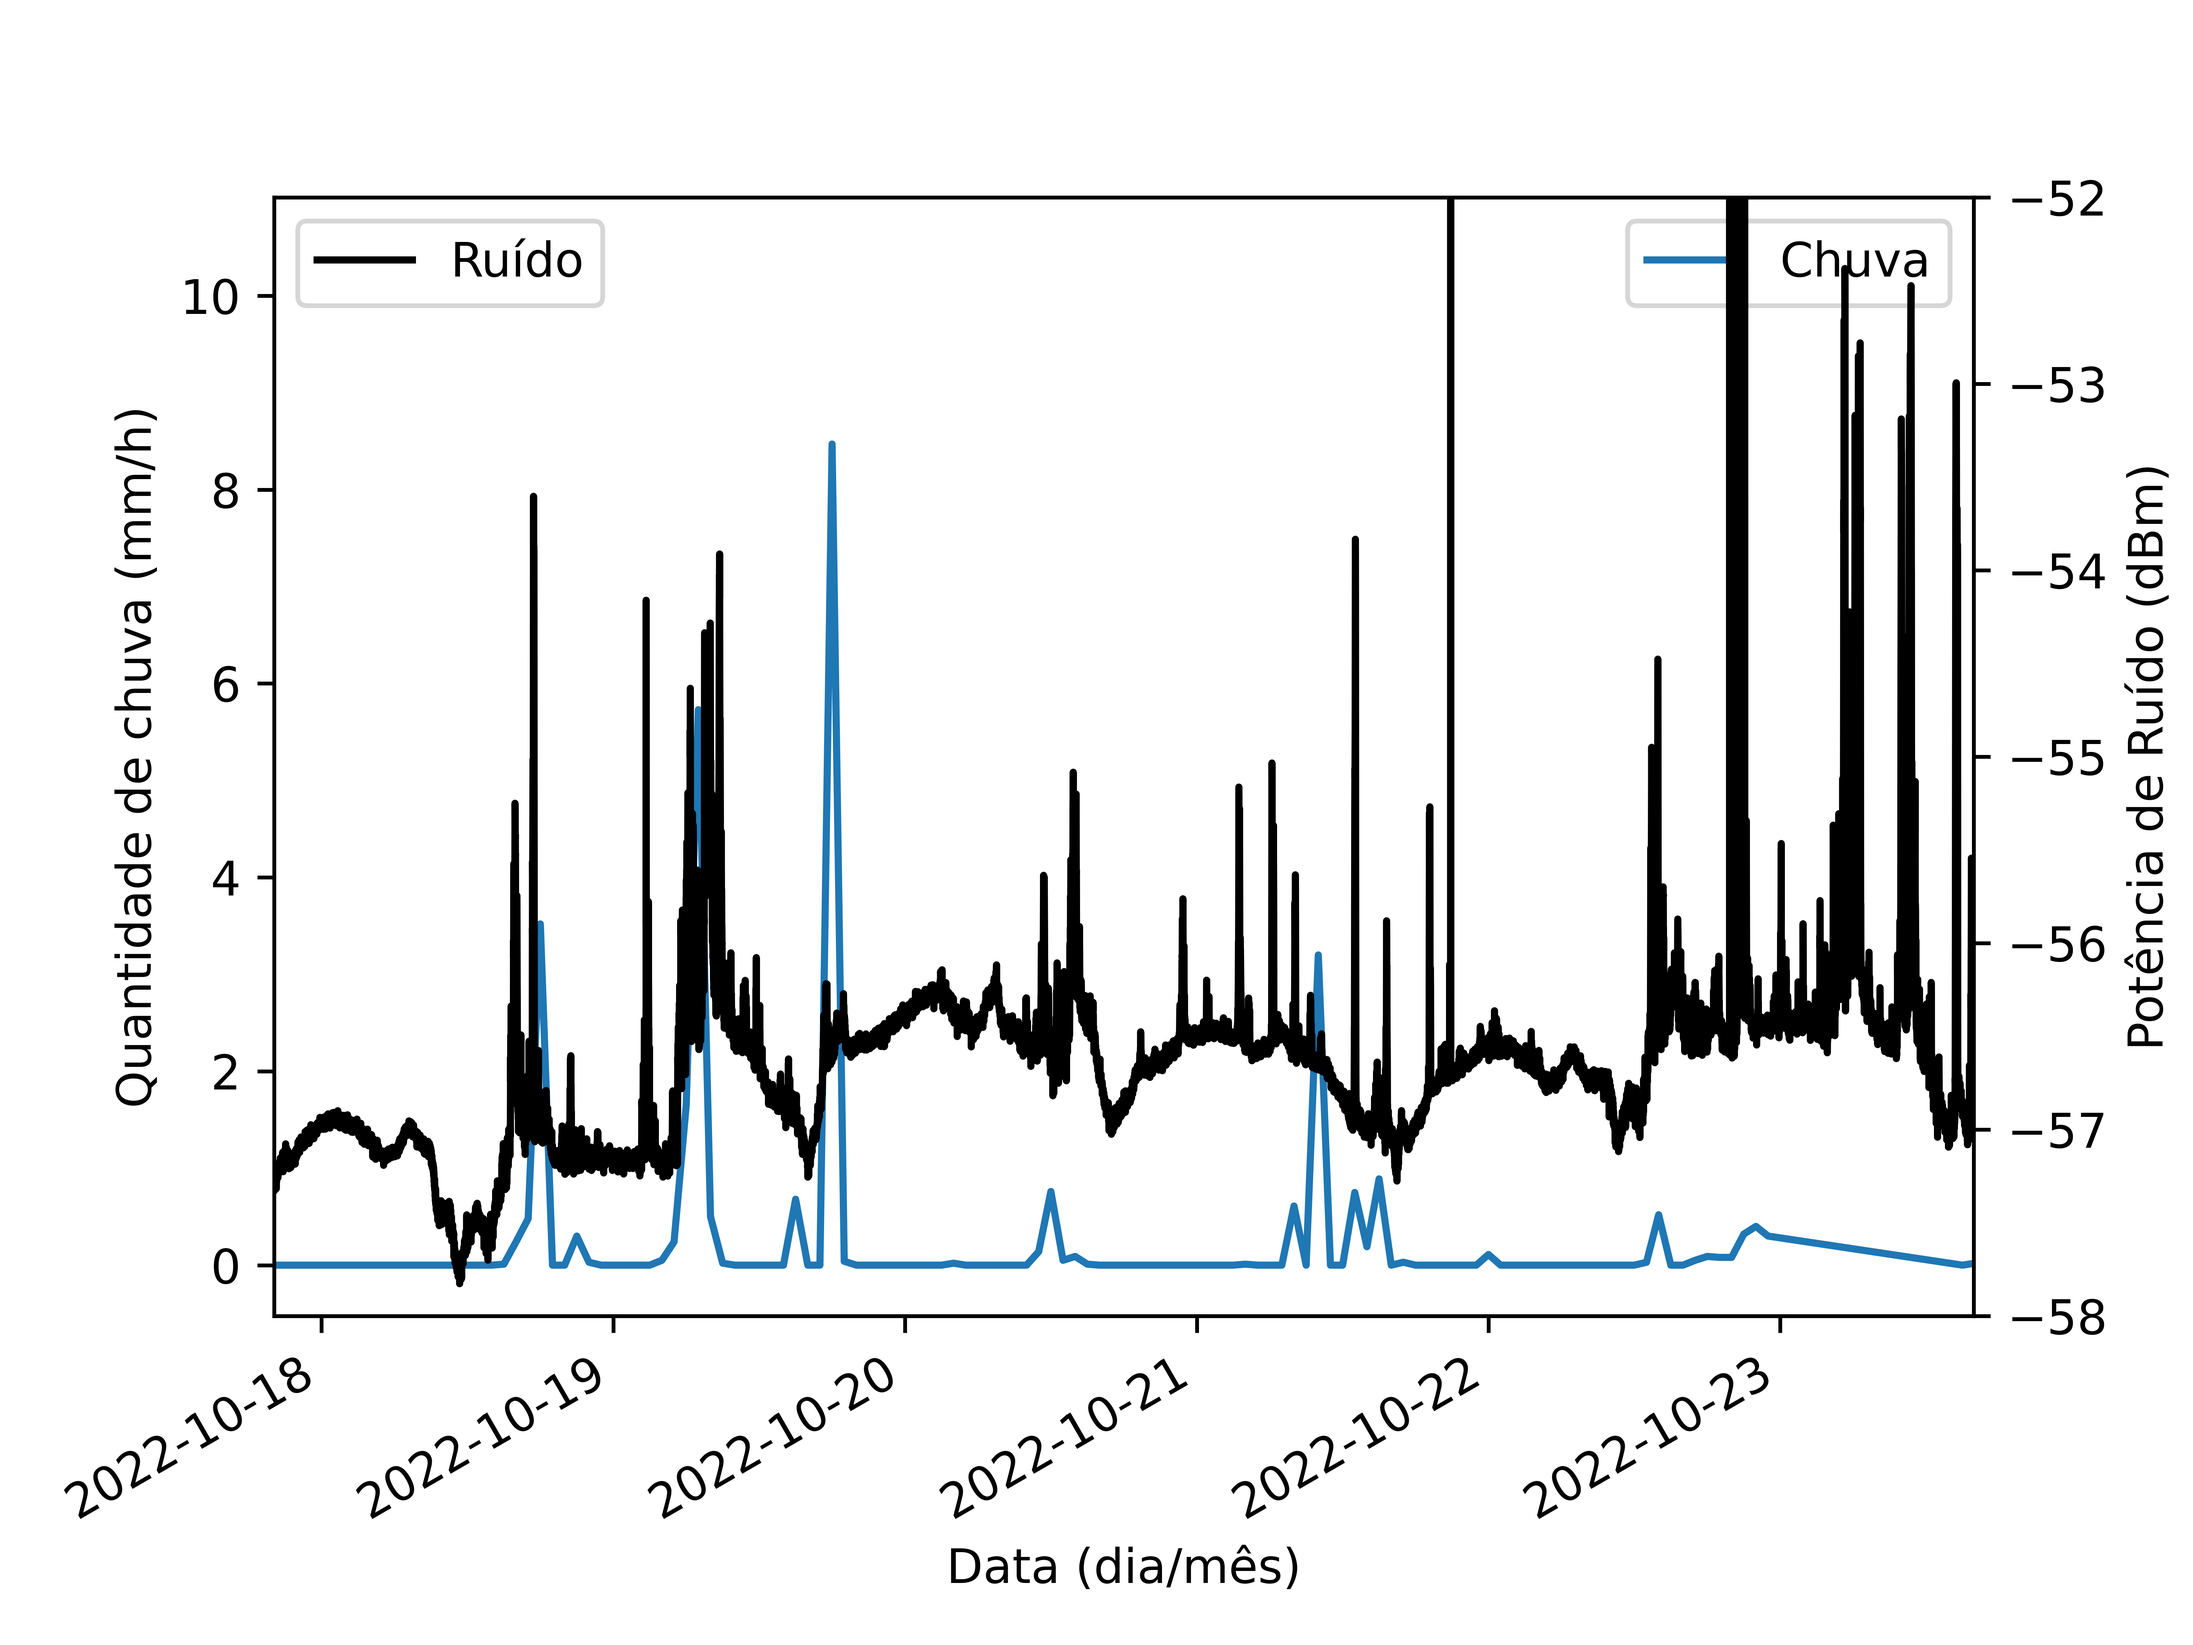
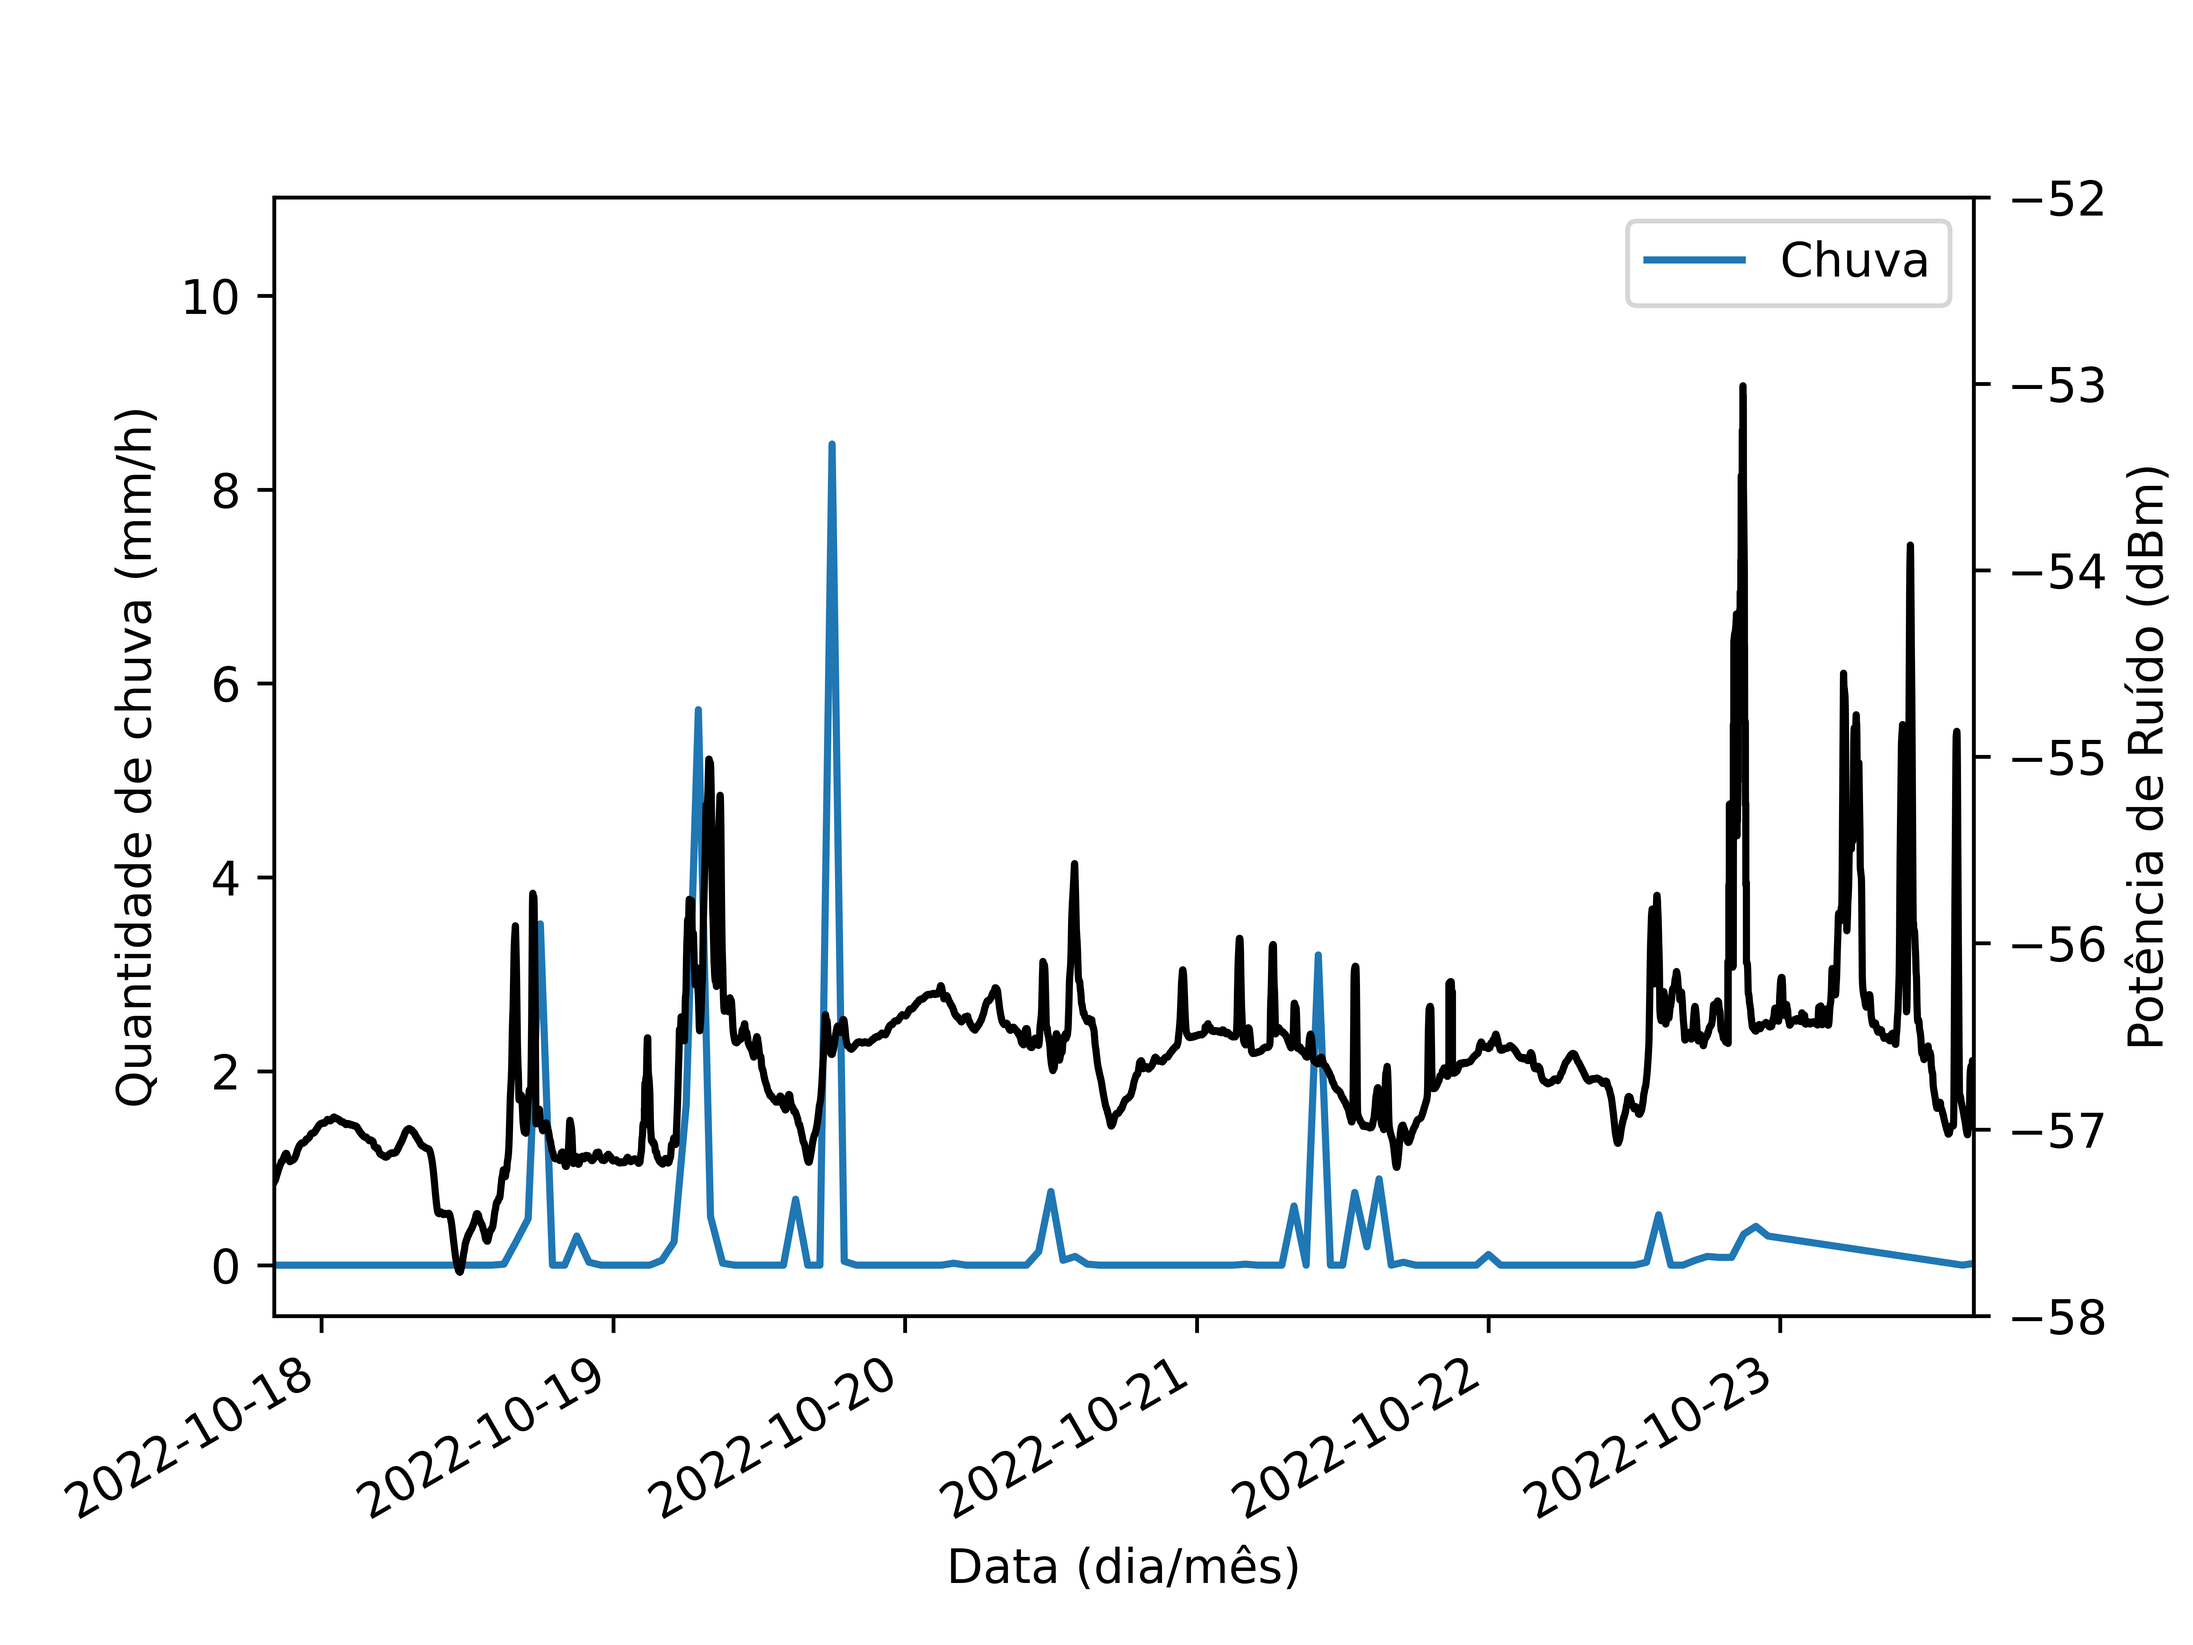
chuva e ruido acabados

diff --git a/PYTHON/sr.py b/PYTHON/sr.py
@@ -1,12 +1,15 @@
 import matplotlib.pyplot as plt
 import numpy as np
+import scipy
 from numpy.fft import fft, ifft
 from datetime import datetime
 import matplotlib.dates as mdates
 import pandas as pd
 import matplotlib.dates as mdates
+import scipy.sparse
 from scipy import integrate
 from scipy.integrate import quad
+from scipy.signal import butter, lfilter, freqz
 
 # Signal
 with open('sat_data/sem12_sinal.txt') as f:
@@ -158,9 +161,21 @@ print(len(rain_amount))
 # print(rain_amount)
 
 date_time = pd.to_datetime(forecast_dates)
+
+
 # rain_amount = integrate.cumulative_trapezoid(rain_amount)
 # rain_amount = np.append(rain_amount, rain_amount[-1])
-#noise_total['Value'] = np.append(noise_total['Value'], noise_total['Value'][-1])
+# noise_total['Value'] = np.append(noise_total['Value'], noise_total['Value'][-1])
+
+def mean_filter(arr, k):
+    p = len(arr)
+    diag_offset = np.linspace(-(k//2), k//2, k, dtype=int)
+    eL = scipy.sparse.diags(np.ones((k, p)), offsets=diag_offset, shape=(p, p))
+    nrmlize = eL @ np.ones_like(arr)
+    return (eL @ arr) / nrmlize
+
+
+noise_total_filtered = mean_filter(noise_total['Value'], 50)
 
 DF = pd.DataFrame()
 DF['value'] = rain_amount
@@ -168,7 +183,7 @@ plt.gca().xaxis.set_major_formatter(mdates.DateFormatter('%d/%m'))
 plt.gca().xaxis.set_major_locator(mdates.DayLocator(interval=2))
 DF = DF.set_index(date_time)
 x0 = noise_total['Date'][0]
-x1 = noise_total['Date'][len(noise_total['Date'])-1]
+x1 = noise_total['Date'][len(noise_total['Date']) - 1]
 fig, ax = plt.subplots()
 ax.set_xlim([x0, x1])
 ax.plot(DF, label="Chuva")
@@ -176,14 +191,13 @@ ax.set_xlabel('Data (dia/mês)')
 ax.set_ylabel('Quantidade de chuva (mm/h)')
 ax2 = ax.twinx()
 ax2.set_ylim([-58, -52])
-ax2.plot(noise_total['Date'], noise_total['Value'], 'k', label='Ruído')
+ax2.plot(noise_total['Date'], noise_total_filtered, 'k', label='Ruído')
 ax2.set_ylabel('Potência de Ruído (dBm)')
 plt.gcf().autofmt_xdate()
-ax.legend()
+#ax.legend()
 ax2.legend()
-plt.savefig('ruido_com_chuva.png', dpi=1000)
+plt.savefig('ruido_com_chuva2.png', dpi=1000)
 plt.show()
-
 
 # for i in aux:
 # temperature.append(float(i[]))
